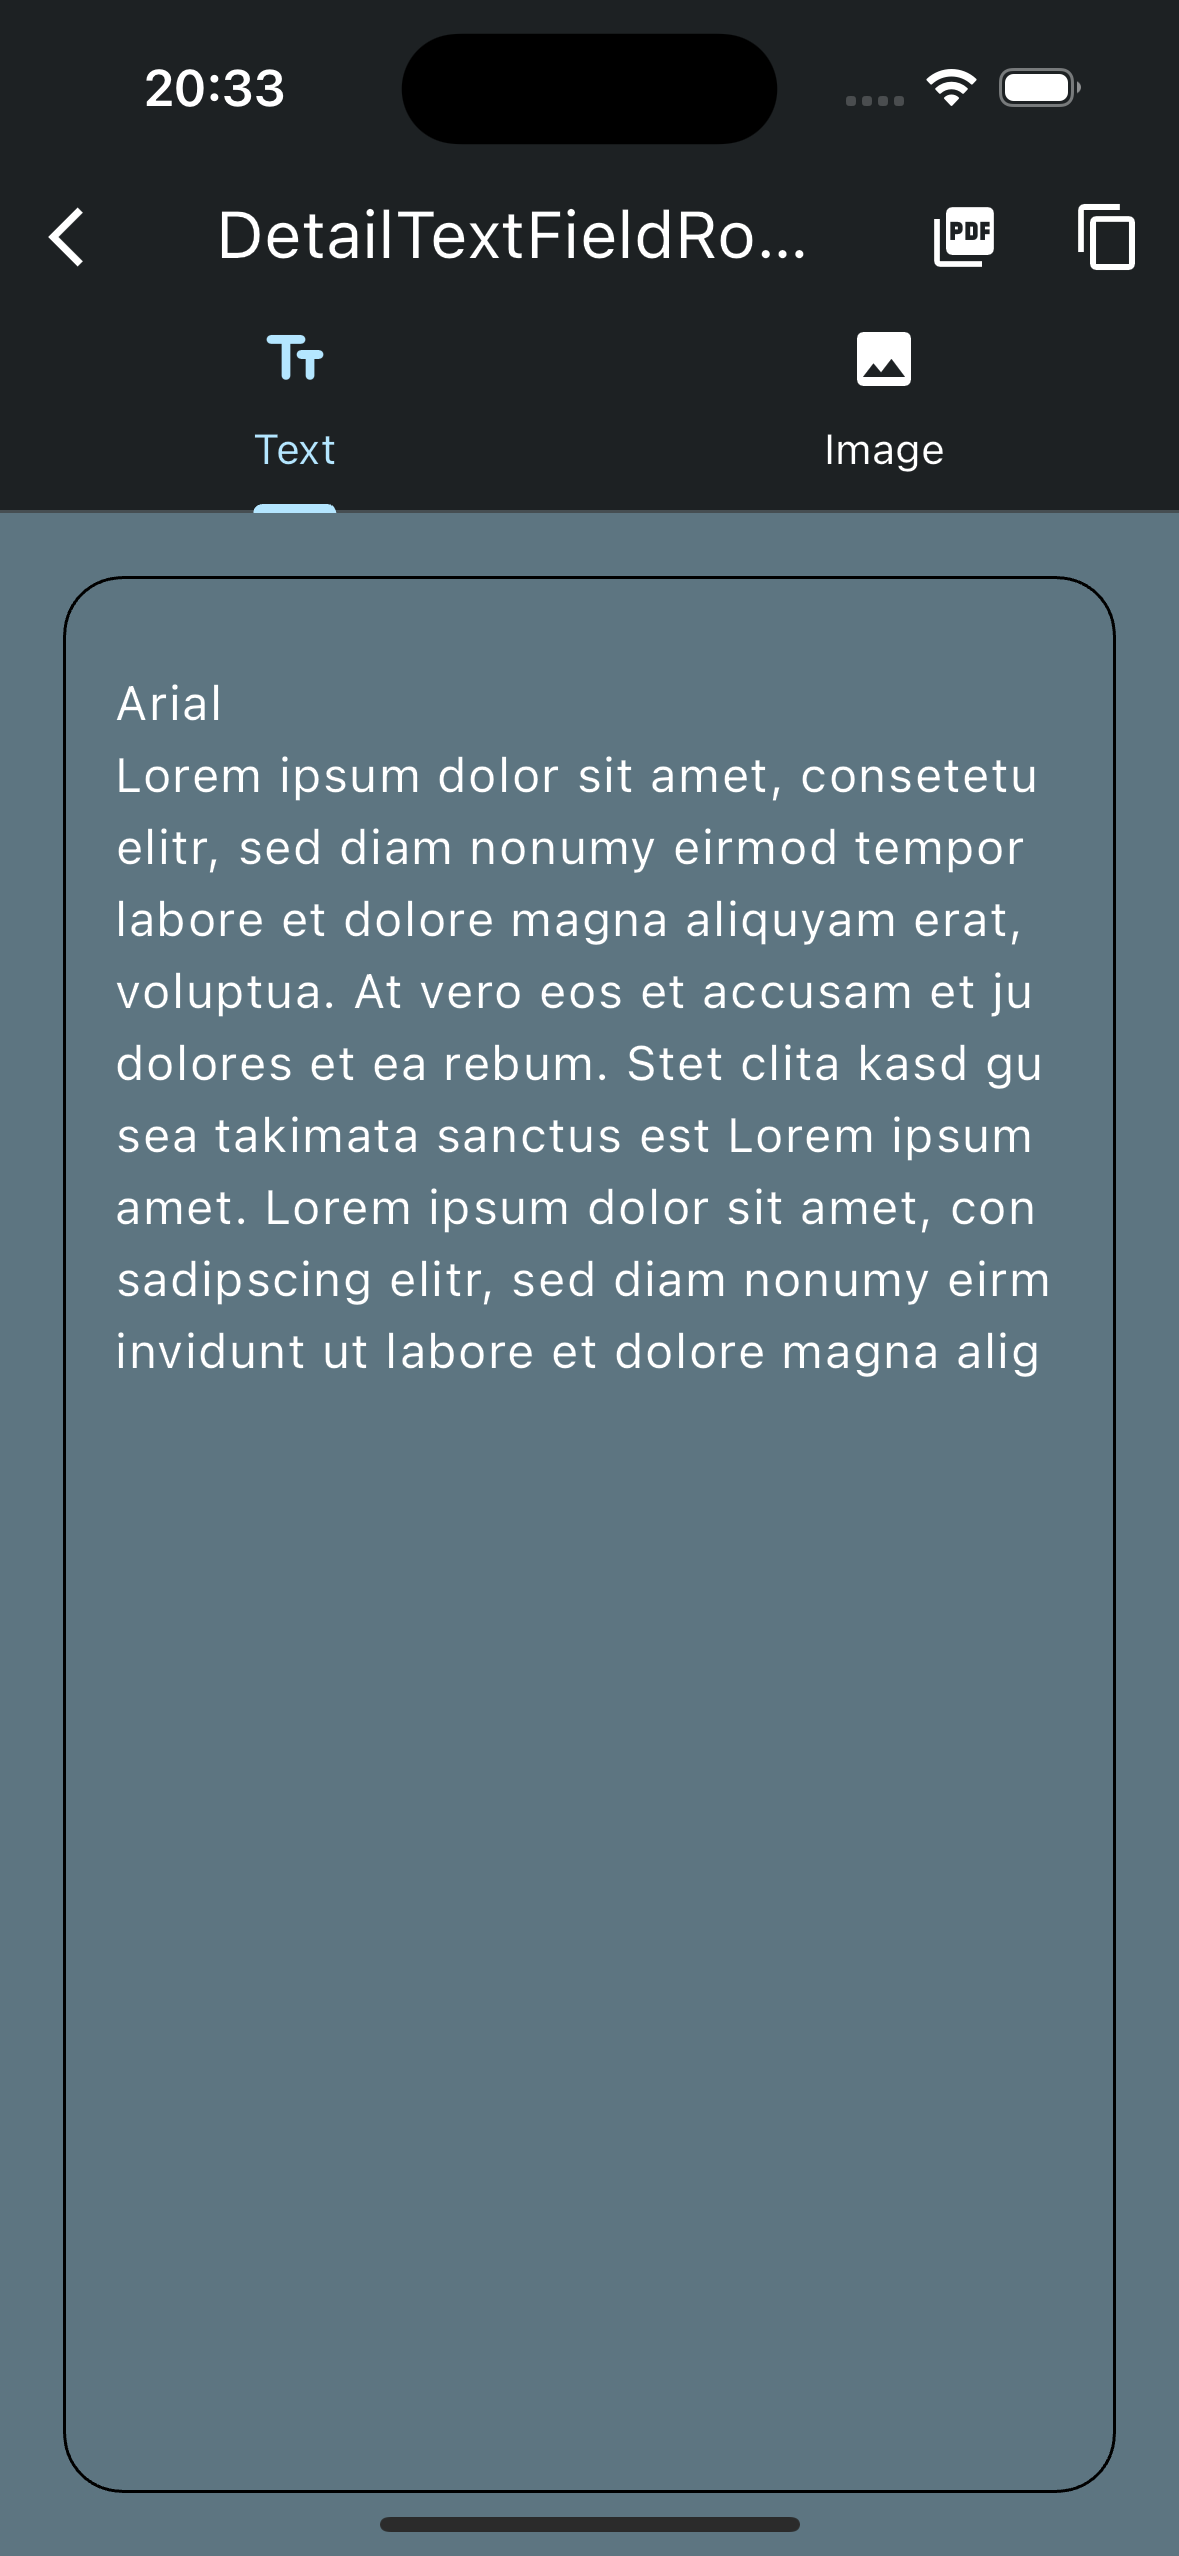
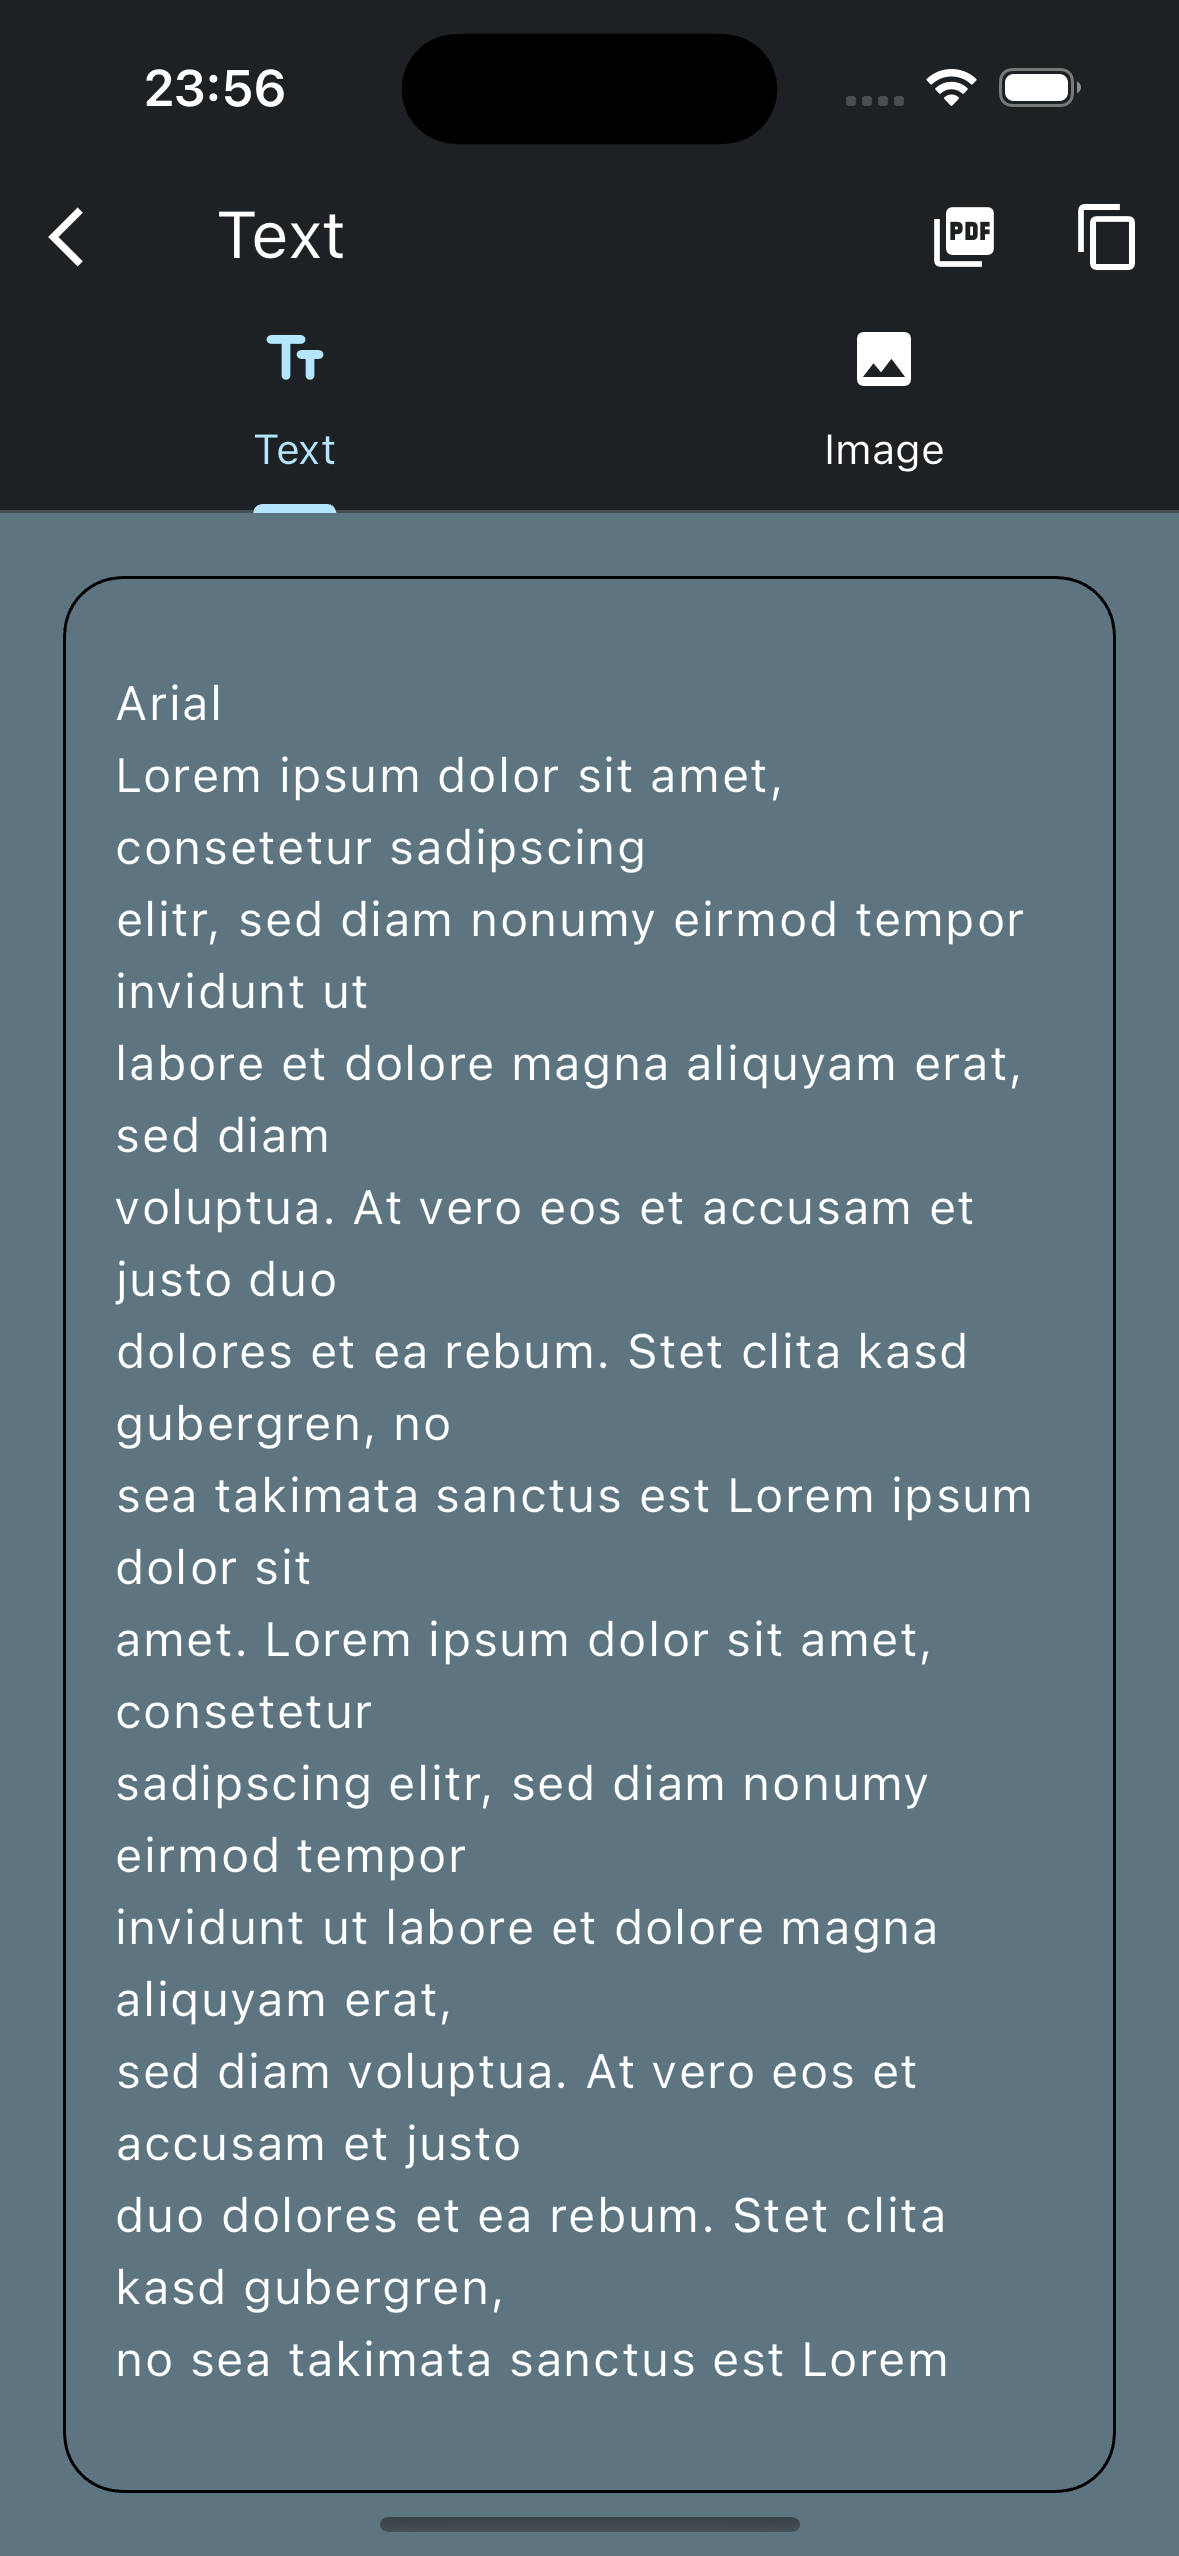
Update detail_app_bar to display different text based on the top route

diff --git a/lib/feature/detail/view/widget/detail_app_bar.dart b/lib/feature/detail/view/widget/detail_app_bar.dart
@@ -16,7 +16,9 @@ final class _DetailAppBar extends StatelessWidget
   Widget build(BuildContext context) {
     return AppBar(
       title: Text(
-        context.topRoute.name,
+        context.topRoute.name == DetailTextFieldRoute.name
+            ? StringConstants.textTab
+            : StringConstants.imageTab,
       ),
       actions: [
         ListenableBuilder(
